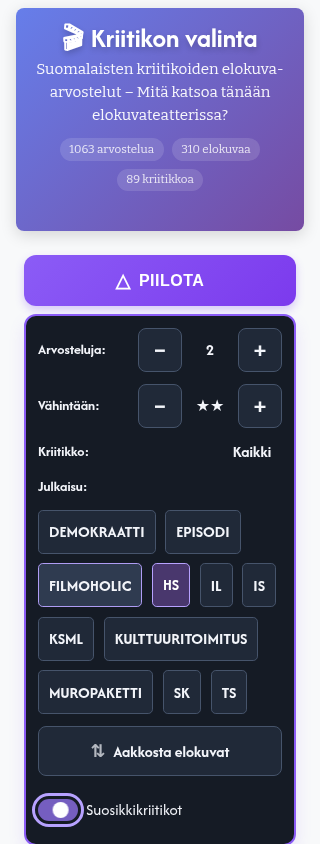
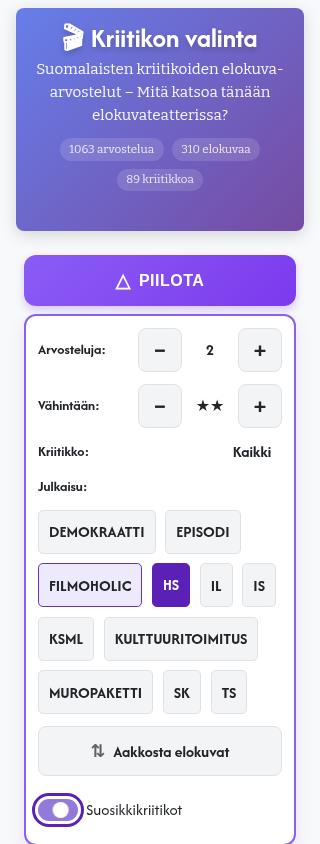
Keep compact header in the existing light site palette

diff --git a/static/css/filters.css b/static/css/filters.css
@@ -506,12 +506,12 @@ tr.dimmed {
    One layout definition replaces the accumulated desktop overrides. */
 .desktop-filters,
 .mobile-filters-container {
-    --toolbar-bg: #151b25;
-    --toolbar-button: #202938;
-    --toolbar-ink: #f3f5fa;
-    --toolbar-muted: #bac4d6;
-    --toolbar-border: #46546b;
-    --toolbar-accent: #b7a2ff;
+    --toolbar-bg: var(--card-bg);
+    --toolbar-button: #f3f4f6;
+    --toolbar-ink: var(--text-color);
+    --toolbar-muted: #4b5563;
+    --toolbar-border: var(--border-color);
+    --toolbar-accent: var(--primary-color);
     background: var(--toolbar-bg);
     color: var(--toolbar-ink);
     font-family: 'Afacad', system-ui, sans-serif;
@@ -531,13 +531,14 @@ tr.dimmed {
 }
 
 :is(.desktop-filters, .mobile-filters-container) button:hover {
-    background: #303d52;
+    background: #ede9fe;
     border-color: var(--toolbar-accent);
     transform: none;
 }
 
-:is(.desktop-filters, .mobile-filters-container) .active {
-    background: #49376d;
+:is(.desktop-filters, .mobile-filters-container) button.active,
+:is(.desktop-filters, .mobile-filters-container) button.active:hover {
+    background: var(--primary-color);
     border-color: var(--toolbar-accent);
     color: white;
 }
@@ -549,8 +550,8 @@ tr.dimmed {
 /* Keep the input focusable and expose focus on the visible switch. */
 .toggle-switch { flex-shrink: 0; }
 .toggle-switch input { position: absolute; inset: 0; width: 100%; height: 100%; }
-.toggle-switch:focus-within { outline: 3px solid #b7a2ff; outline-offset: 3px; border-radius: 22px; }
-.toggle-slider { background: #566176; }
+.toggle-switch:focus-within { outline: 3px solid var(--primary-color); outline-offset: 3px; border-radius: 22px; }
+.toggle-slider { background: #9ca3af; }
 .toggle-switch input:checked + .toggle-slider { background: #8b5cf6; }
 :is(.desktop-filters, .mobile-filters-container) label.toggle-container {
     cursor: pointer;
@@ -616,7 +617,7 @@ tr.dimmed {
     .desktop-filters .group-reviews { grid-column: 2; grid-row: 1; }
     .desktop-filters .group-stars { grid-column: 2; grid-row: 2; }
     .desktop-filters .filter-icon { display: none; }
-    .desktop-filters .slider { background: #46546b; margin: .45rem 0 .25rem; }
+    .desktop-filters .slider { background: #d1d5db; margin: .45rem 0 .25rem; }
     .desktop-filters .slider::-webkit-slider-thumb { background: var(--toolbar-accent); }
     .desktop-filters .slider::-moz-range-thumb { background: var(--toolbar-accent); border: 0; }
     .desktop-filters .slider-labels { color: var(--toolbar-muted); font-family: system-ui, sans-serif; font-size: .75rem; }

diff --git a/AGENTS.md b/AGENTS.md
@@ -226,7 +226,7 @@ Start with 2-4 short sentences explaining the change and whether it needs attent
 
 ## Compact header, 2026-11-20
 
-Owner selected sketch 1: dark compact controls in three desktop columns and
+Owner selected sketch 1: compact controls in the existing site palette in three desktop columns and
 two rows. Tablet uses two columns with publications below; phone keeps its
 existing collapsible panel with 44px controls and internal scrolling on short
 screens. Removed accumulated desktop overrides rather than appending another

diff --git a/CHANGELOG.md b/CHANGELOG.md
@@ -1,6 +1,6 @@
 ## 2026-11-20
 
-- Compact dark filter header: three desktop columns, two rows, shorter sorting
+- Compact filter header: three desktop columns, two rows, shorter sorting
   labels, readable minimum filters and smaller publication chips.
 - Keep mobile controls touch-sized and allow scrolling through filters on short
   screens. Favourite switches now have clickable labels and keyboard focus.
